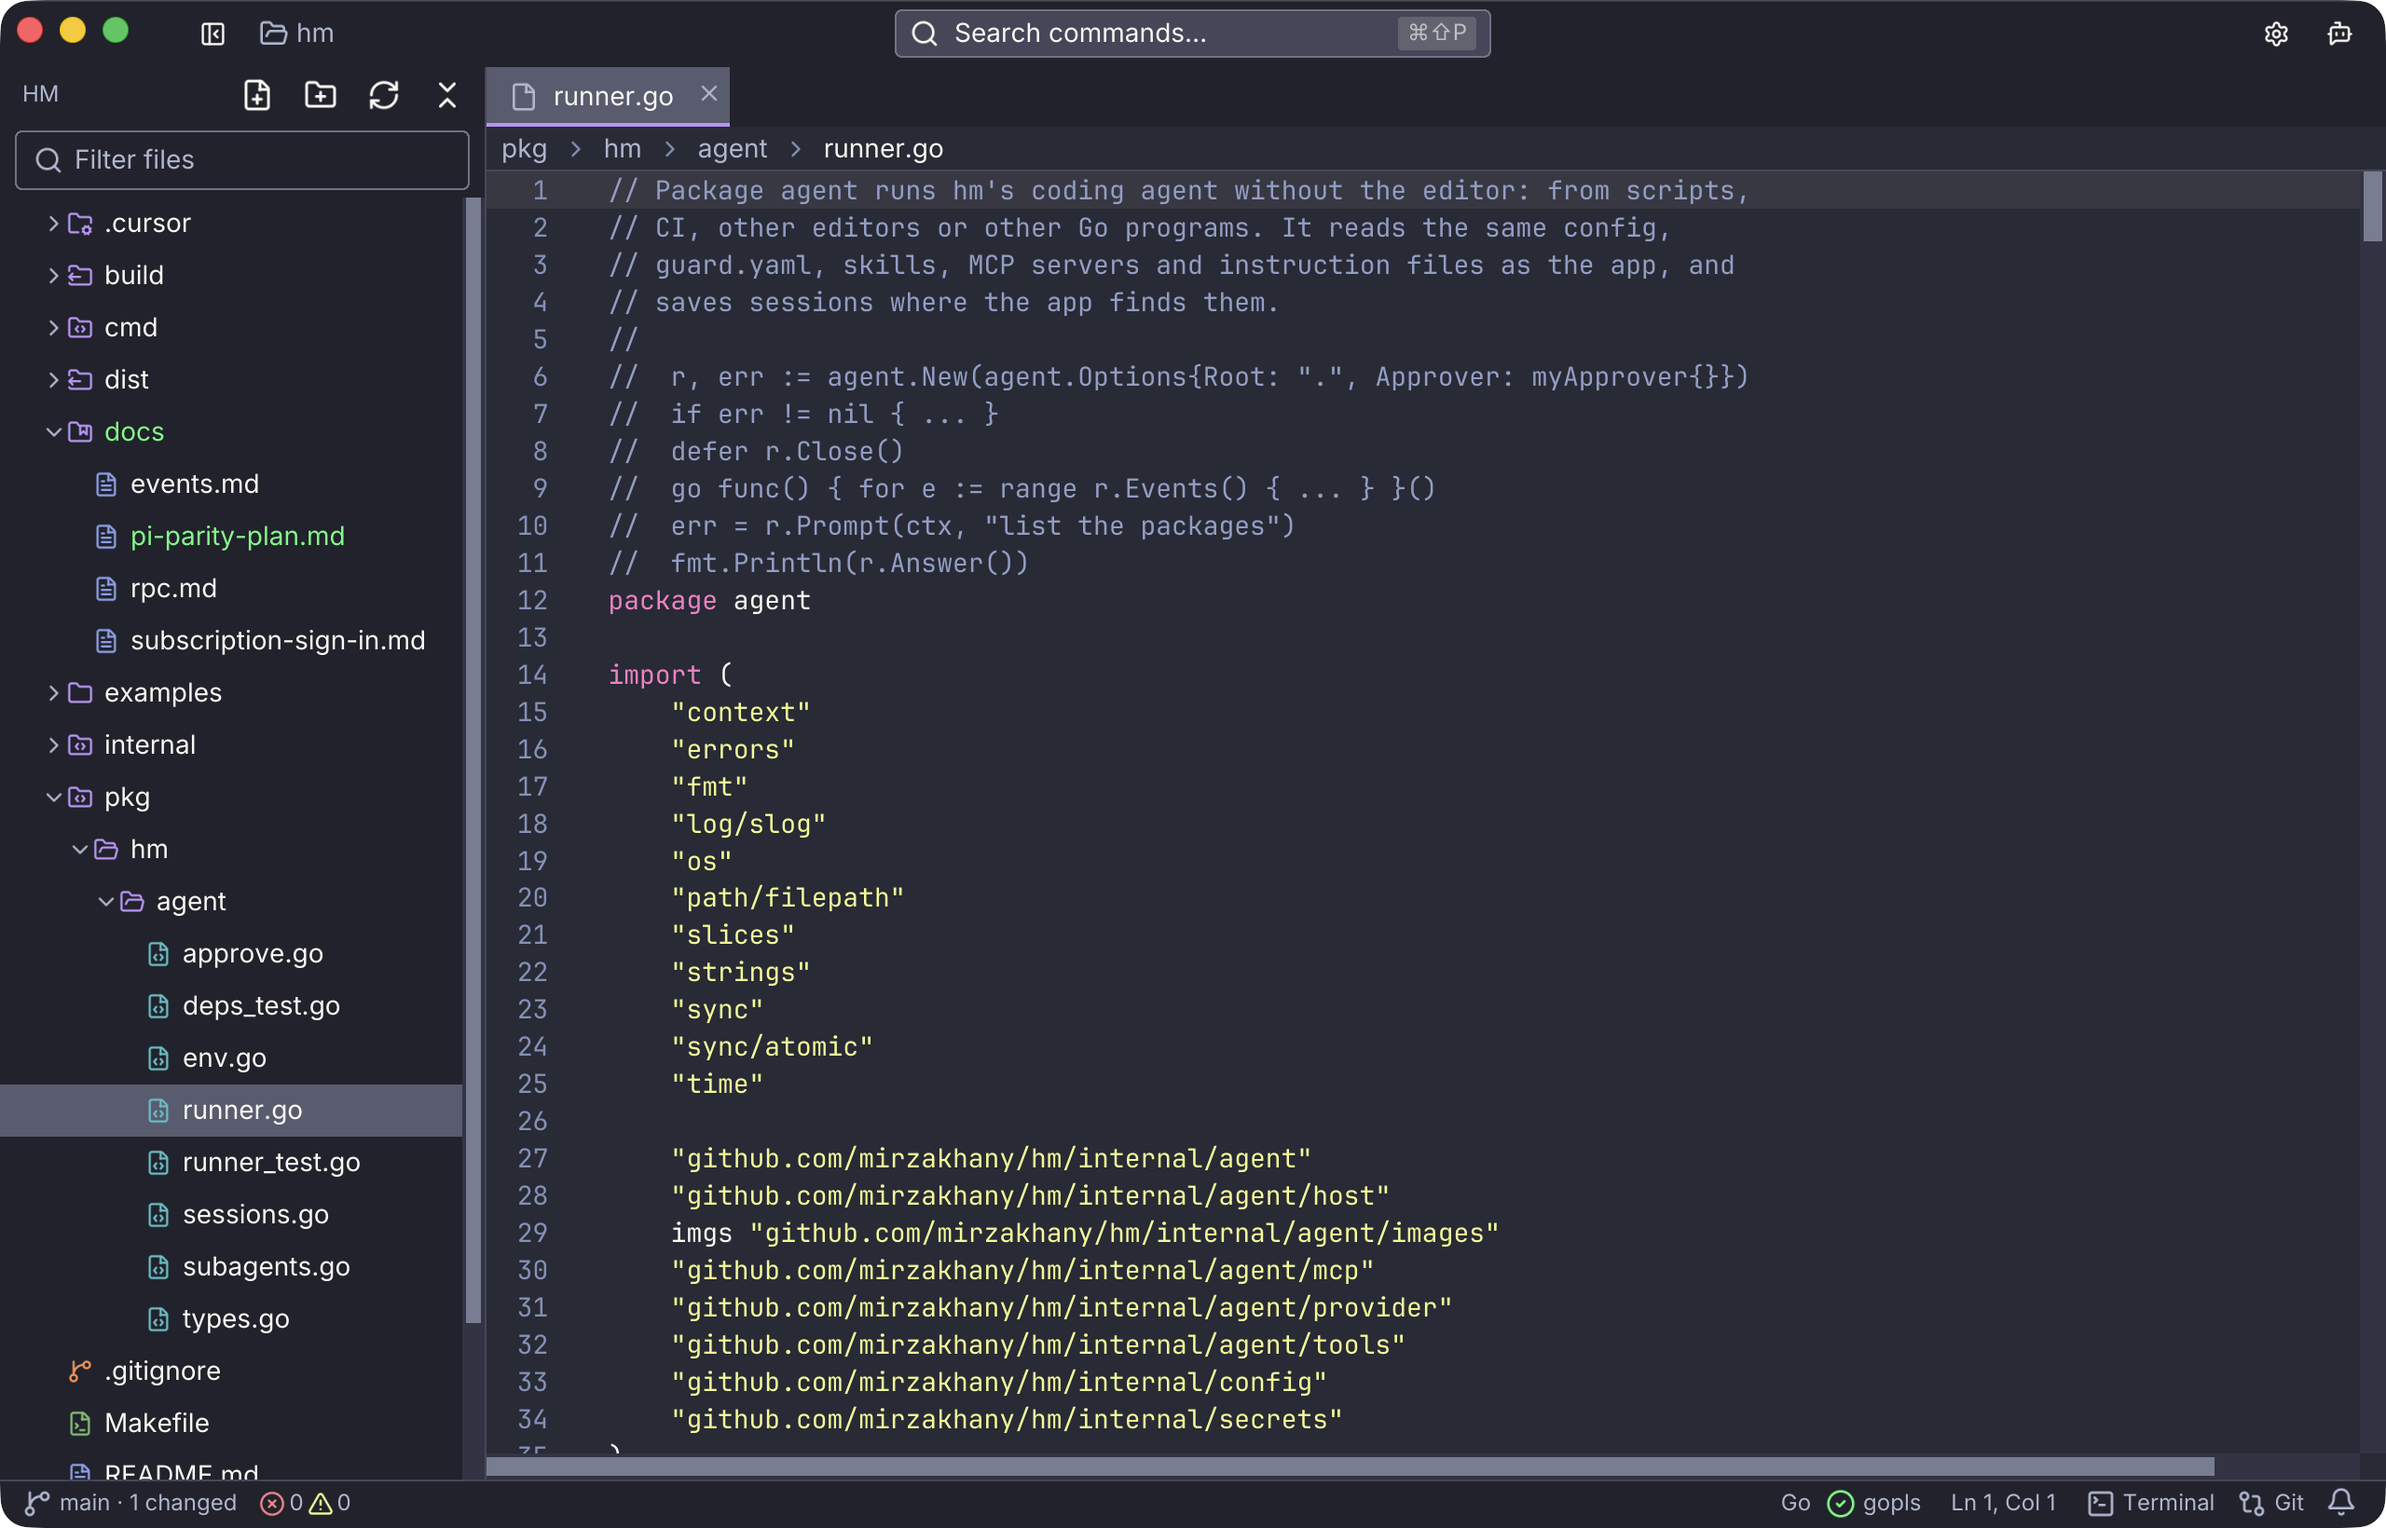
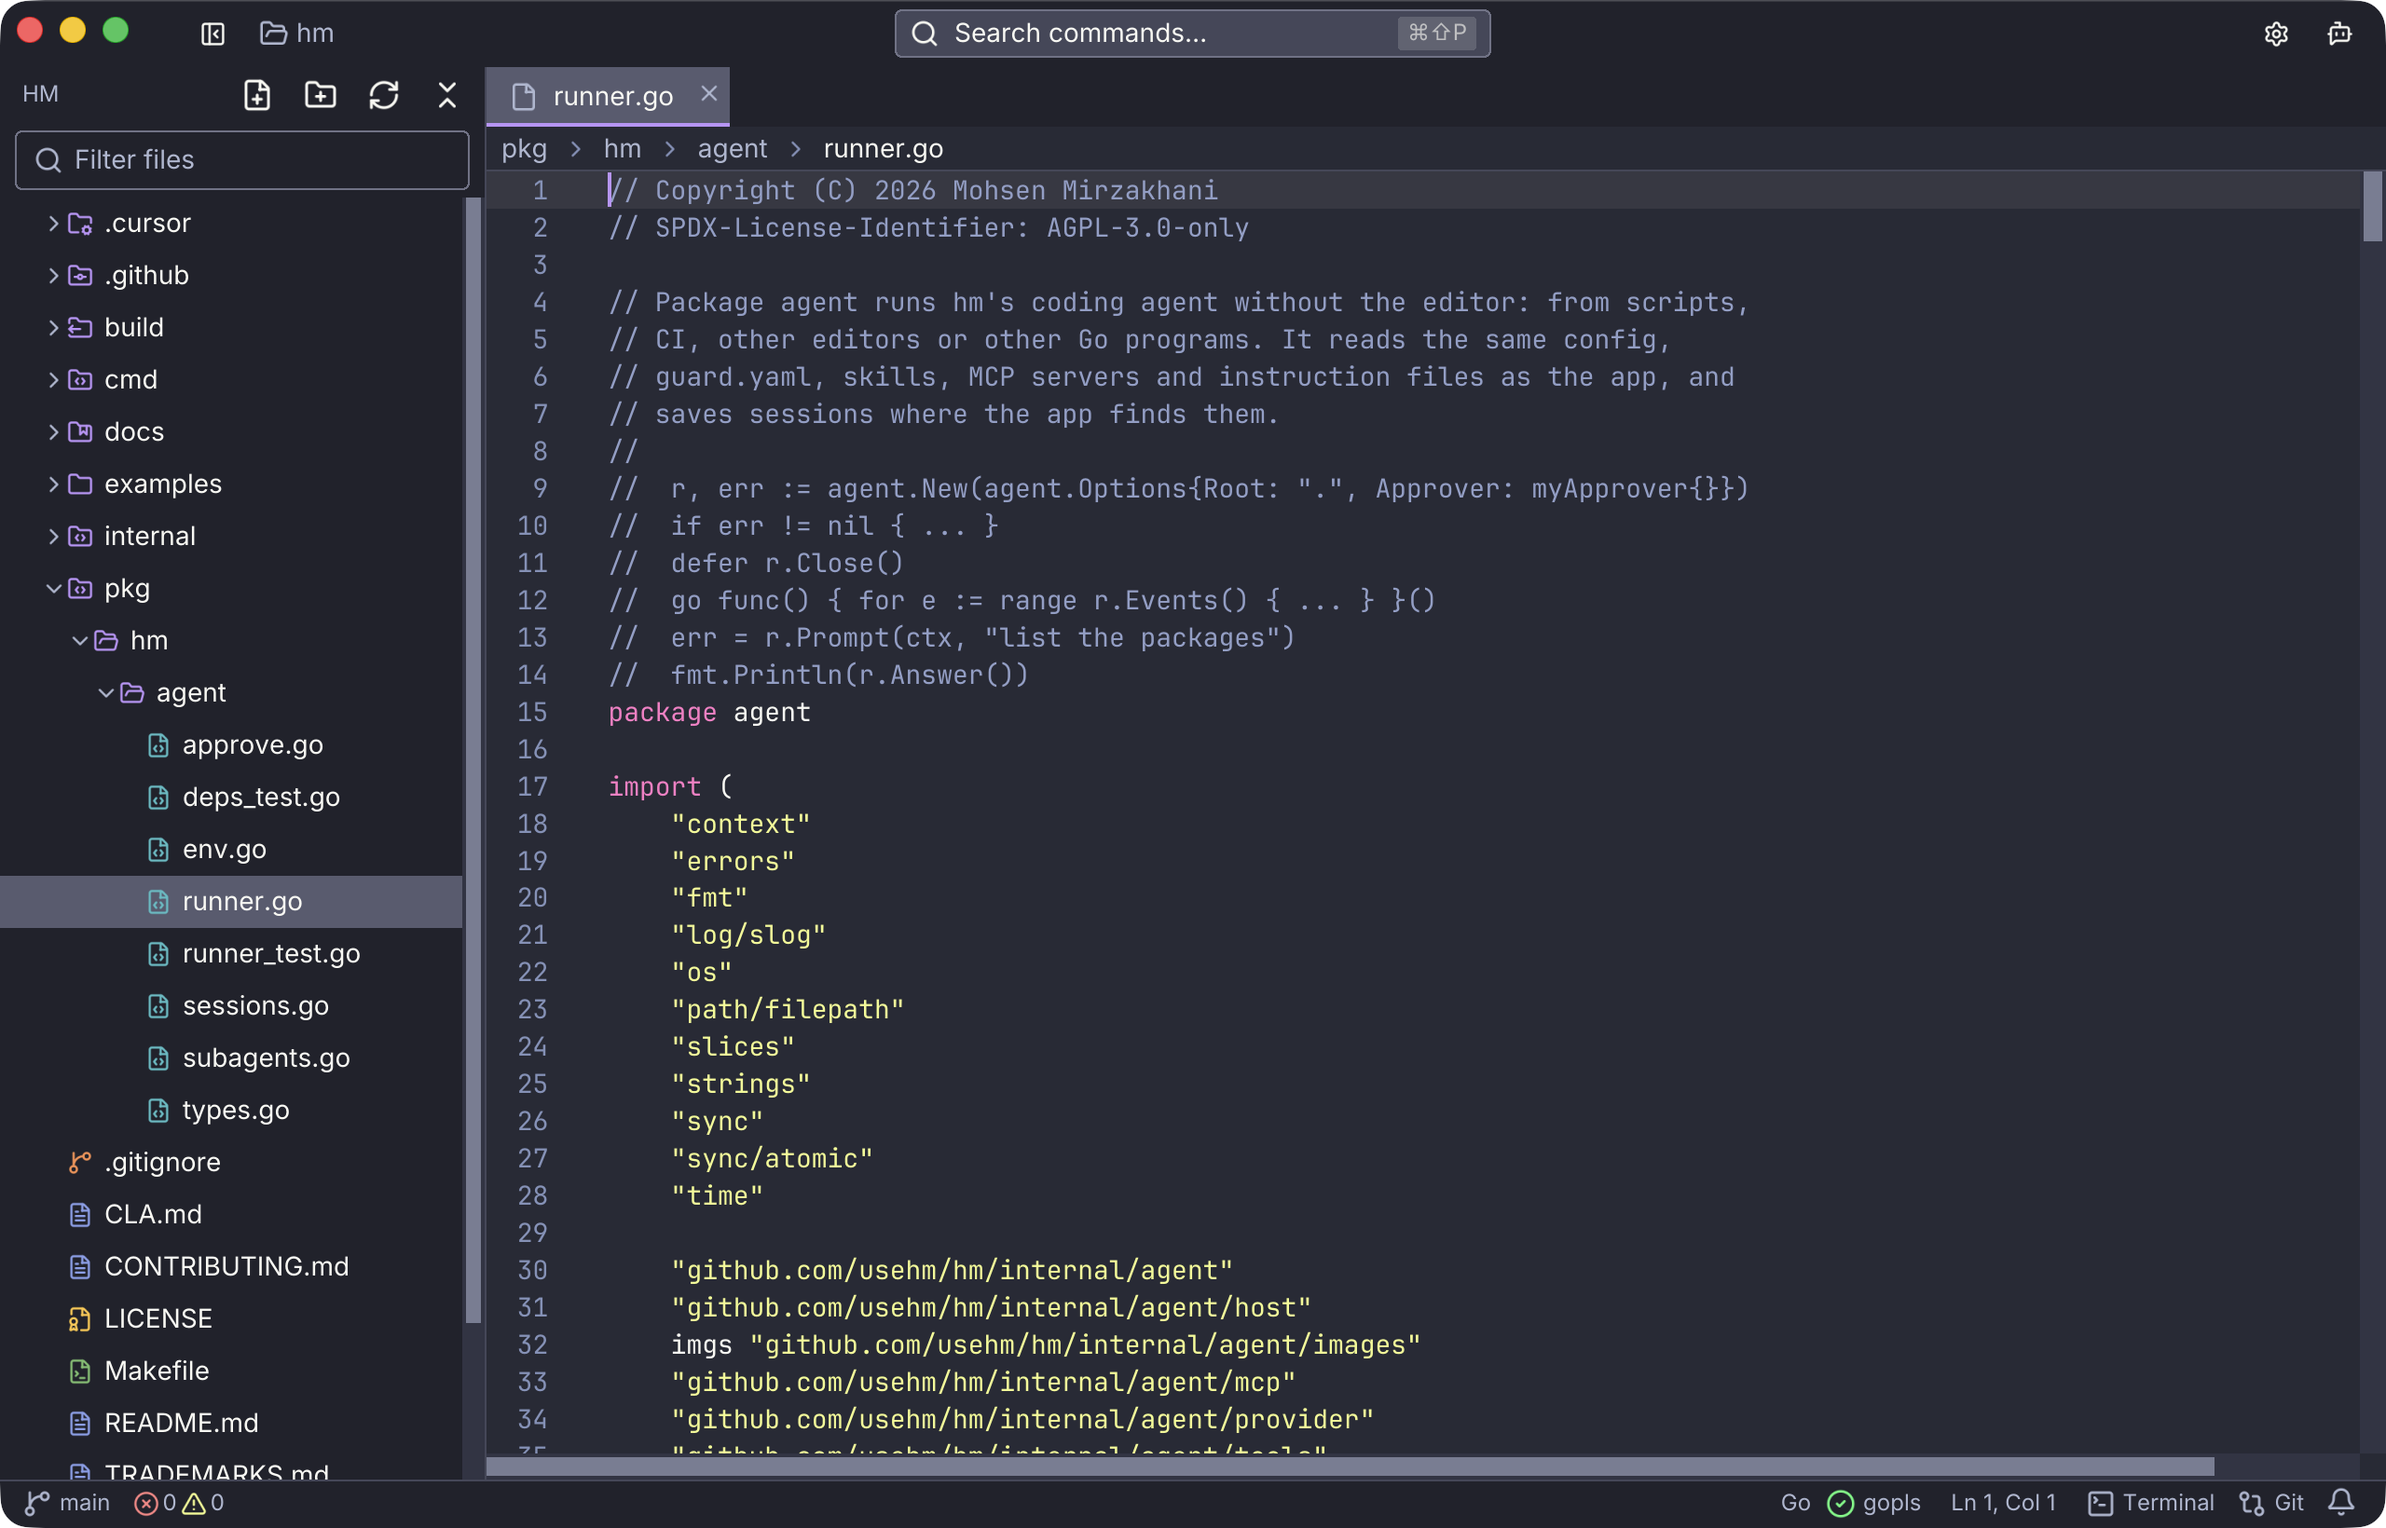
Website and docs for Hm
A landing page and documentation for usehm.dev, built by
scripts/build.mjs from src/ and content/docs/ into dist/, and served as
static assets by a Cloudflare Worker (wrangler.jsonc). A GitHub Action
deploys main.

diff --git a/content/docs/rpc.md b/content/docs/rpc.md
@@ -4,9 +4,9 @@ description: Drive an hm agent session from another program over JSON lines.
 section: Automation
 order: 2
 ---
-<!-- Synced from github.com/mirzakhany/hm/docs/rpc.md by scripts/sync-docs.mjs; edit it there. -->
+<!-- Synced from github.com/usehm/hm/docs/rpc.md by scripts/sync-docs.mjs; edit it there. -->
 
-`hm agent --rpc` runs hm's agent for another program: an editor plugin, a bot, a test harness. The program writes JSON commands to hm's standard input, one per line, and reads JSON lines from its standard output: the [events](/docs/events/) of `--output json`, and a `response` to each command. Warnings for people go to standard error. [examples/rpc_client.py](https://github.com/mirzakhany/hm/blob/main/examples/rpc_client.py) is a complete client in about a hundred lines of Python.
+`hm agent --rpc` runs hm's agent for another program: an editor plugin, a bot, a test harness. The program writes JSON commands to hm's standard input, one per line, and reads JSON lines from its standard output: the [events](/docs/events/) of `--output json`, and a `response` to each command. Warnings for people go to standard error. [examples/rpc_client.py](https://github.com/usehm/hm/blob/main/examples/rpc_client.py) is a complete client in about a hundred lines of Python.
 
 ```sh
 hm agent --rpc [--cwd DIR] [--mode NAME] [--provider NAME] [--model ID]

diff --git a/content/docs/go-package.md b/content/docs/go-package.md
@@ -1,14 +1,14 @@
 ---
 title: Go package
-description: Embed hm's agent in your own Go program with github.com/mirzakhany/hm/pkg/hm/agent.
+description: Embed hm's agent in your own Go program with github.com/usehm/hm/pkg/hm/agent.
 section: Automation
 order: 4
 ---
 
-The Go package `github.com/mirzakhany/hm/pkg/hm/agent` runs the same agent without the window, with the same config, `guard.yaml`, skills, MCP servers, instruction files and saved sessions.
+The Go package `github.com/usehm/hm/pkg/hm/agent` runs the same agent without the window, with the same config, `guard.yaml`, skills, MCP servers, instruction files and saved sessions.
 
 ```sh
-go get github.com/mirzakhany/hm/pkg/hm/agent
+go get github.com/usehm/hm/pkg/hm/agent
 ```
 
 ```go

diff --git a/content/docs/index.md b/content/docs/index.md
@@ -29,3 +29,7 @@ Fast where it can be, and quiet when you need to think.
 - [The agent](/docs/agent/): chat, sessions, modes and what the agent can do.
 - [Providers and models](/docs/providers/): connect Anthropic, Gemini, OpenAI, Azure or a local model.
 - [Headless CLI](/docs/headless/): run the agent in scripts and CI with `hm agent -p`.
+
+## License
+
+Hm is open source under the [GNU Affero General Public License v3.0](https://github.com/usehm/hm/blob/main/LICENSE). Contributions are welcome under a [Contributor License Agreement](https://github.com/usehm/hm/blob/main/CLA.md); the name and logo are covered by the [trademark policy](https://github.com/usehm/hm/blob/main/TRADEMARKS.md).

diff --git a/content/docs/providers.md b/content/docs/providers.md
@@ -60,4 +60,4 @@ Every field but `id` is optional; one you leave out comes from hm's own table or
 
 ## Subscriptions
 
-Hm uses API keys and cloud credentials, not consumer subscriptions: most providers' terms don't allow a third-party tool to use a subscription. The [notes in the repository](https://github.com/mirzakhany/hm/blob/main/docs/subscription-sign-in.md) list what each provider allows.
+Hm uses API keys and cloud credentials, not consumer subscriptions: most providers' terms don't allow a third-party tool to use a subscription. The [notes in the repository](https://github.com/usehm/hm/blob/main/docs/subscription-sign-in.md) list what each provider allows.

diff --git a/content/docs/events.md b/content/docs/events.md
@@ -4,7 +4,7 @@ description: The event stream written by hm agent --output json and --rpc.
 section: Automation
 order: 3
 ---
-<!-- Synced from github.com/mirzakhany/hm/docs/events.md by scripts/sync-docs.mjs; edit it there. -->
+<!-- Synced from github.com/usehm/hm/docs/events.md by scripts/sync-docs.mjs; edit it there. -->
 
 `hm agent -p --output json "prompt"` writes what the agent does to standard output, one JSON object per line. Nothing else goes there: warnings and errors for people go to standard error. `hm agent --rpc` writes the same events, with a `response` to each command; see [rpc.md](/docs/rpc/).
 

diff --git a/README.md b/README.md
@@ -1,6 +1,6 @@
 # usehm.dev
 
-The website and documentation for [Hm](https://github.com/mirzakhany/hm), served by a Cloudflare Worker with static assets.
+The website and documentation for [Hm](https://github.com/usehm/hm), served by a Cloudflare Worker with static assets.
 
 ```sh
 npm install

diff --git a/content/docs/install.md b/content/docs/install.md
@@ -10,7 +10,7 @@ Prebuilt, signed releases for macOS, Linux and Windows are planned. Until then, 
 ## Build from source
 
 ```sh
-git clone https://github.com/mirzakhany/hm.git
+git clone https://github.com/usehm/hm.git
 cd hm
 make run            # run from source in the current folder
 ```
